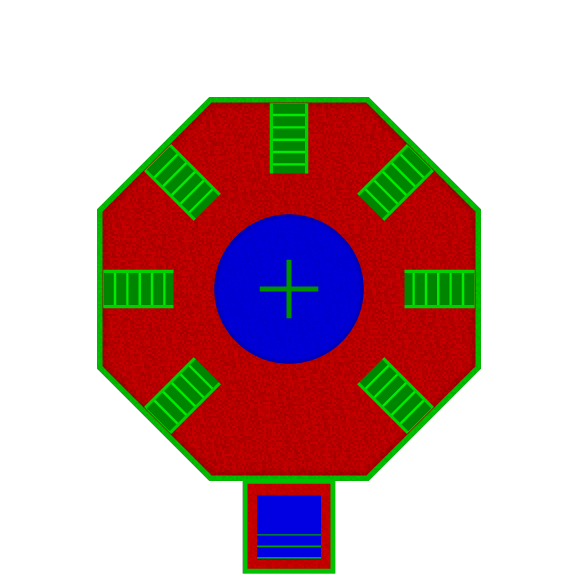
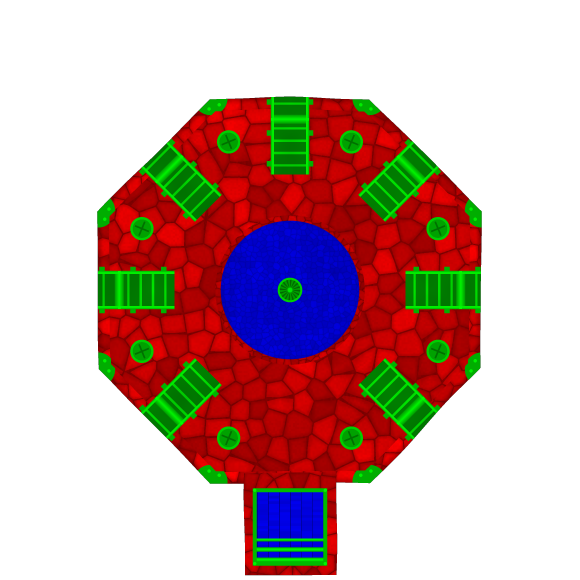
Build the factory from stone with iron fittings and a geared ring.
The base is flagstone with a wobbly stone curb, iron corner brackets, manholes between belts, belt drums and stand feet, a gravel yard with a cast drain, and a plank dock with rollers. The ring has bulged riveted plates, rust, a toothed rim and vents; the brass hatch stays the only rotation marker.

Changed region(s): [[0.1557, 0.1557, 0.8408, 0.9965]]

diff --git a/tools/gen_factory.py b/tools/gen_factory.py
@@ -6,16 +6,18 @@ stejně jako domečky. Osmiúhelník je přes plochy široký jako kotlina,
 tedy 6 m. Výstupek z jižní hrany přesahuje.
 
 Spodek (0 m):
-  podlaha osmiúhelníku, sedm dopravníků od hran ke středu,
-  čtvercový výstupek na jižní hraně (tam ve hře vyjedou krabičky)
-  a kruhová plocha na materiál uprostřed.
-  Dopravníky jsou jeden snímek. Pohyb pásu by potom byl posun
+  kamenná dlažba v osmiúhelníku se zvlněnou zídkou a železným kováním
+  v rozích, sedm dopravníků od hran ke středu s hnacím válcem a patkami,
+  poklopy mezi pásy, čtvercový výstupek na jižní hraně (tam ve hře
+  vyjedou krabičky) a uprostřed štěrková plocha na materiál s litinovou
+  mříží. Dopravníky jsou jeden snímek. Pohyb pásu by potom byl posun
   toho vzoru, ne další obrázky.
 
 Mezikruží (výška RING_H): samostatná vrstva, střed je průhledný,
 takže sklad pod ním zůstane vidět. Obrázek je vystředěný na osu,
-kolem které se vrstva ve hře otočí. Jeden díl má mosazný poklop,
-aby otočení bylo poznat.
+kolem které se vrstva ve hře otočí. Nýtované pláty s rzí, ozubený
+věnec a větrací mřížky. Jeden díl má mosazný poklop, aby otočení
+bylo poznat.
 
 Vrstva nese váhy materiálu, ne hotovou barvu. Alfa je krytí.
 Spodek: R podlaha, G kov, B sklad.
@@ -34,7 +36,7 @@ from pathlib import Path
 import numpy as np
 from PIL import Image, ImageDraw, ImageFilter
 
-from gen_houses import SHADE_FLOOR, colorize, hash01, load_font, smoothstep
+from gen_houses import SHADE_FLOOR, colorize, fbm, hash01, load_font, organic, smoothstep, stone_shade
 from gen_trees import on_grass
 
 ROOT = Path(__file__).resolve().parent.parent
@@ -139,43 +141,101 @@ def octagon(x: np.ndarray, y: np.ndarray, apothem: float) -> tuple[np.ndarray, n
     return inside, dist
 
 
-def paint_base(x: np.ndarray, y: np.ndarray) -> Mask:
-    cell = int(round((x.shape[1] / SS)))
+def blend(mask: Mask, where: np.ndarray, channel: int, amount: np.ndarray) -> None:
+    """Přimíchá druhý materiál, třeba rez do plechu. Krytí a světlost zůstanou."""
+    amount = np.clip(amount, 0.0, 1.0)
+    keep = 1.0 - amount
+    mask.ch[:, where] *= keep[where]
+    mask.ch[channel, where] += amount[where]
+
+
+def disc(x: np.ndarray, y: np.ndarray, cx: float, cy: float, radius: float) -> np.ndarray:
+    return (x - cx) ** 2 + (y - cy) ** 2 <= radius * radius
+
+
+def paint_base(x0: np.ndarray, y0: np.ndarray) -> Mask:
+    cell = int(round((x0.shape[1] / SS)))
     mask = Mask(cell)
-    n = x.shape[0]
     ap = m(FLAT)
+    # Zděný obvod se vlní, stroje uvnitř drží rovné souřadnice x0, y0.
+    x, y = organic(x0, y0, 401, 0.0, m(0.07))
     inside, edge = octagon(x, y, ap)
-    grain = noise(n, 11)
-    rim = smoothstep(m(0.42), 0.0, edge)
-    floor_shade = (0.56 + 0.18 * grain) * (1.0 - 0.30 * rim)
-    mask.fill(inside, FLOOR, floor_shade)
+    flags = stone_shade(x, y, m(0.62), 403)
+    weather = 0.84 + 0.24 * fbm(x, y, m(2.2), 405)
+    mask.fill(inside, FLOOR, flags * weather * (1.0 - 0.2 * smoothstep(m(0.6), 0.0, edge)))
 
-    curb = inside & (edge < m(0.16)) & (edge >= 0.0)
-    mask.fill(curb, METAL, 0.62 + 0.08 * grain)
+    # Obvodová zídka z větších kamenů, nahoře světlejší.
+    curb = inside & (edge < m(0.34))
+    blocks = stone_shade(x, y, m(0.36), 407, (1.3, 1.3))
+    mask.fill(curb, FLOOR, blocks * (0.72 + 0.3 * smoothstep(0.0, m(0.2), edge)))
+    paint_brackets(mask, x0, y0, inside, edge)
 
-    dist = np.hypot(x, y)
-    yard = dist <= m(YARD)
-    yard_shade = 0.74 + 0.10 * noise(n, 19, 6)
-    yard_shade = yard_shade * (1.0 - 0.22 * smoothstep(m(YARD - 0.16), m(YARD), dist))
-    mask.fill(yard, YARD_CH, yard_shade)
-    # Kříž na ploše, ať je vidět, že se sklad s mezikružím netočí.
-    arm = m(0.07)
-    cross = yard & (((np.abs(x) <= arm) & (np.abs(y) <= m(0.85))) | ((np.abs(y) <= arm) & (np.abs(x) <= m(0.85))))
-    mask.fill(cross, METAL, 0.46)
+    dist0 = np.hypot(x0, y0)
+    yard = dist0 <= m(YARD)
+    gravel = stone_shade(x0, y0, m(0.16), 409)
+    earth = 0.62 + 0.26 * fbm(x0, y0, m(0.9), 411)
+    mask.fill(yard, YARD_CH, (0.55 * earth + 0.45 * gravel) * (1.0 - 0.2 * smoothstep(m(YARD - 0.3), m(YARD), dist0)))
+    edging = yard & (dist0 >= m(YARD - 0.16))
+    mask.fill(edging, FLOOR, stone_shade(x0, y0, m(0.22), 413) * 0.82)
+    paint_drain(mask, x0, y0)
 
-    paint_belts(mask, x, y, inside)
-    paint_dock(mask, x, y, grain)
+    paint_manholes(mask, x0, y0, inside)
+    paint_belts(mask, x0, y0, inside)
+    paint_dock(mask, x0, y0, x, y)
     return mask
+
+
+def paint_brackets(mask: Mask, x: np.ndarray, y: np.ndarray, inside: np.ndarray, edge: np.ndarray) -> None:
+    """Železné kování v rozích zídky. Drží ji pohromadě a je to první technický znak."""
+    reach = m(FLAT) / math.cos(math.pi / 8.0)
+    for k in range(8):
+        ang = (k + 0.5) * math.pi / 4.0
+        vx, vy = math.cos(ang) * reach, math.sin(ang) * reach
+        plate = inside & (edge < m(0.36)) & disc(x, y, vx, vy, m(0.5))
+        mask.fill(plate, METAL, 0.6)
+        for step in (0.2, 0.38):
+            bx, by = math.cos(ang) * (reach - m(step) * 1.4), math.sin(ang) * (reach - m(step) * 1.4)
+            for turn in (-1.0, 1.0):
+                tx, ty = -math.sin(ang) * turn * m(0.16), math.cos(ang) * turn * m(0.16)
+                mask.fill(plate & disc(x, y, bx + tx, by + ty, m(0.05)), METAL, 0.92)
+
+
+def paint_drain(mask: Mask, x: np.ndarray, y: np.ndarray) -> None:
+    """Litinová mříž uprostřed skladu. Ukazuje střed, který se neotáčí."""
+    dist = np.hypot(x, y)
+    cover = dist <= m(0.36)
+    mask.fill(cover, METAL, 0.5)
+    slot = cover & (dist > m(0.1)) & (dist < m(0.3)) & (np.mod(np.arctan2(y, x) * 8.0 / math.pi, 1.0) < 0.42)
+    mask.fill(slot, METAL, 0.26)
+    mask.fill(cover & (dist >= m(0.3)), METAL, 0.78)
+    mask.fill(dist <= m(0.07), METAL, 0.86)
+
+
+def paint_manholes(mask: Mask, x: np.ndarray, y: np.ndarray, inside: np.ndarray) -> None:
+    """Poklopy mezi pásy, do podzemí továrny."""
+    radius = m((RING_OUT + FLAT) * 0.5 + 0.1)
+    for k in range(8):
+        ang = (k + 0.5) * math.pi / 4.0
+        cx, cy = math.cos(ang) * radius, math.sin(ang) * radius
+        lid = inside & disc(x, y, cx, cy, m(0.34))
+        mask.fill(lid, METAL, 0.54)
+        mask.fill(lid & ~disc(x, y, cx, cy, m(0.27)), METAL, 0.76)
+        groove = lid & disc(x, y, cx, cy, m(0.22)) & (
+            (np.abs((x - cx) * math.cos(ang) + (y - cy) * math.sin(ang)) < m(0.025))
+            | (np.abs(-(x - cx) * math.sin(ang) + (y - cy) * math.cos(ang)) < m(0.025))
+        )
+        mask.fill(groove, METAL, 0.3)
 
 
 def paint_belts(mask: Mask, x: np.ndarray, y: np.ndarray, inside: np.ndarray) -> None:
     """Sedm pásů od ploché hrany ke kolu. Jižní hrana má místo pásu výstupek."""
     half = m(BELT_HALF)
     rail = m(0.09)
-    outer = m(FLAT) - m(0.18)
+    outer = m(FLAT) + m(0.2)
     inner = m(RING_OUT) - m(0.18)
     pitch = m(0.36)
     slat_w = m(0.07)
+    dirt = 0.82 + 0.26 * fbm(x, y, m(0.8), 421)
     for k in range(8):
         if k == SOUTH:
             continue
@@ -184,37 +244,46 @@ def paint_belts(mask: Mask, x: np.ndarray, y: np.ndarray, inside: np.ndarray) ->
         along = x * nx + y * ny
         side = -x * ny + y * nx
         span = inside & (along >= inner) & (along <= outer)
+        # Patky stojanu vedle pásu, po délce v pravidelném kroku.
+        foot = span & (np.abs(side) > half) & (np.abs(side) <= half + m(0.12)) & (np.mod(along, m(0.9)) < m(0.16))
+        mask.fill(foot, METAL, 0.62)
         belt = span & (np.abs(side) <= half)
         center = span & (np.abs(side) <= half - rail)
         rails = belt & ~center
-        mask.fill(belt, METAL, 0.40)
-        mask.fill(rails, METAL, 0.78)
+        mask.fill(belt, METAL, 0.36 * dirt)
+        rail_light = 0.62 + 0.3 * smoothstep(0.0, rail * 0.6, half - np.abs(side))
+        mask.fill(rails, METAL, rail_light)
         slats = center & (np.mod(along, pitch) < slat_w)
-        mask.fill(slats, METAL, 0.90)
+        mask.fill(slats, METAL, 0.84 * dirt)
+        # Hnací válec u vnějšího konce, oblý: uprostřed světlý.
+        drum_at = m(FLAT) - m(0.62)
+        drum = center & (np.abs(along - drum_at) <= m(0.13))
+        mask.fill(drum, METAL, 0.5 + 0.45 * (1.0 - np.abs(along - drum_at) / m(0.13)))
+        bolt = span & (np.abs(np.abs(side) - (half - rail * 0.5)) < m(0.04)) & (np.abs(along - drum_at) < m(0.04))
+        mask.fill(bolt, METAL, 0.98)
 
 
-def paint_dock(mask: Mask, x: np.ndarray, y: np.ndarray, grain: np.ndarray) -> None:
+def paint_dock(mask: Mask, x: np.ndarray, y: np.ndarray, wx: np.ndarray, wy: np.ndarray) -> None:
     ap = m(FLAT)
     side = m(DOCK)
-    overlap = m(0.06)
-    dock = (np.abs(x) <= side / 2.0) & (y >= ap - overlap) & (y <= ap + side)
-    mask.fill(dock, FLOOR, 0.64 + 0.12 * grain)
-    rim = m(0.14)
-    border = dock & (
-        (np.abs(x) >= side / 2.0 - rim)
-        | (y <= ap - overlap + rim)
-        | (y >= ap + side - rim)
-    )
-    mask.fill(border, METAL, 0.70)
-    plate = (
-        (np.abs(x) <= side / 2.0 - m(0.42))
-        & (y >= ap + m(0.42))
-        & (y <= ap + side - m(0.42))
-    )
-    mask.fill(plate, YARD_CH, 0.86)
-    # Válečky u vnější hrany, kudy krabička vyjede ven.
-    roller = plate & (np.mod(y, m(0.34)) < m(0.05)) & (y > ap + side - m(1.15))
-    mask.fill(roller, METAL, 0.55)
+    overlap = m(0.3)
+    dock = (np.abs(wx) <= side / 2.0) & (wy >= ap - overlap) & (wy <= ap + side)
+    mask.fill(dock, FLOOR, stone_shade(wx, wy, m(0.4), 431, (1.2, 1.2)) * 0.92)
+    plate = (np.abs(x) <= side / 2.0 - m(0.38)) & (y >= ap + m(0.3)) & (y <= ap + side - m(0.38))
+    frame = (np.abs(x) <= side / 2.0 - m(0.26)) & (y >= ap + m(0.18)) & (y <= ap + side - m(0.26))
+    mask.fill(frame, METAL, 0.66)
+    # Výdejní deska z prken, kudy krabička vyjede.
+    plank = np.mod(x / m(0.32), 1.0)
+    grain = hash01(np.floor(x / m(0.32)), np.floor(y / m(0.08)), 433)
+    mask.fill(plate, YARD_CH, (0.78 + 0.14 * grain) * np.where(plank < 0.08, 0.6, 1.0))
+    roller_zone = plate & (y > ap + side - m(1.05))
+    phase = np.mod(y / m(0.3), 1.0)
+    roller = roller_zone & (phase < 0.45)
+    mask.fill(roller, METAL, 0.45 + 0.5 * np.sin(phase / 0.45 * math.pi))
+    for sx in (-1.0, 1.0):
+        bolt = disc(x, y, sx * (side / 2.0 - m(0.32)), ap + m(0.24), m(0.05))
+        bolt |= disc(x, y, sx * (side / 2.0 - m(0.32)), ap + side - m(0.32), m(0.05))
+        mask.fill(bolt, METAL, 0.95)
 
 
 def paint_ring(x: np.ndarray, y: np.ndarray) -> Mask:
@@ -223,29 +292,42 @@ def paint_ring(x: np.ndarray, y: np.ndarray) -> Mask:
     n = x.shape[0]
     dist = np.hypot(x, y)
     outer, inner = m(RING_OUT), m(RING_IN)
+    ang = np.arctan2(y, x)
+    teeth = 44
+    tooth_phase = np.mod(ang * teeth / math.tau, 1.0)
+    tooth_w = np.abs(tooth_phase - 0.5) * 2.0
+    tooth_top = outer + m(0.17) * np.clip(1.6 - 1.6 * tooth_w, 0.0, 1.0)
+    gear = (dist > outer) & (dist <= tooth_top) & (tooth_w < 0.82)
     ring = (dist <= outer) & (dist >= inner)
     grain = noise(n, 29, 5)
     t = np.clip((dist - inner) / (outer - inner), 0.0, 1.0)
-    ang = np.arctan2(y, x)
     # Spáry míří do rohů osmiúhelníku, díly sedí nad plochými stranami.
     # Severní poklop je pak uprostřed dílu a spára jím nevede.
     sector = math.pi / 4.0
     aligned = ang - math.pi / 8.0
     sector_i = np.floor(np.mod(aligned + math.pi, math.tau) / sector)
-    alt = np.where(np.mod(sector_i, 2) == 0, 0.05, -0.03).astype(np.float32)
-    shade = np.clip(0.50 + 0.30 * t + 0.08 * grain + alt, 0.0, 1.0)
-    mask.fill(ring, PLATE, shade)
-
+    alt = (hash01(sector_i, np.zeros_like(sector_i), 31) - 0.5) * 0.12
     seam_ang = np.minimum(np.mod(aligned, sector), sector - np.mod(aligned, sector))
-    seams = ring & (seam_ang * np.maximum(dist, 1.0) < m(0.055))
-    mask.fill(seams, LIP, 0.34)
+    seam_px = seam_ang * np.maximum(dist, 1.0)
+    # Plát je vyboulený: u spár a lemů tmavší, uprostřed světlejší.
+    bulge = smoothstep(0.0, m(0.4), np.minimum(seam_px, np.minimum(dist - inner, outer - dist)))
+    shade = np.clip((0.46 + 0.26 * t + 0.06 * grain + alt) * (0.82 + 0.22 * bulge), 0.0, 1.0)
+    mask.fill(ring, PLATE, shade)
+    mask.fill(gear, LIP, 0.56 + 0.3 * (1.0 - tooth_w))
+    # Rez a ošoupání, ne všude stejně.
+    rust = smoothstep(0.55, 0.85, fbm(x, y, m(0.9), 33)) * 0.55
+    blend(mask, ring, LIP, rust)
 
-    lip_w = m(0.12)
-    mask.fill(ring & (dist <= inner + lip_w), LIP, 0.40)
-    mask.fill(ring & (dist >= outer - lip_w), LIP, 0.48)
+    mask.fill(ring & (seam_px < m(0.05)), LIP, 0.3)
+    lip_w = m(0.14)
+    inner_lip = ring & (dist <= inner + lip_w)
+    mask.fill(inner_lip, LIP, 0.38 + 0.4 * np.sin(np.clip((dist - inner) / lip_w, 0.0, 1.0) * math.pi))
+    outer_lip = ring & (dist >= outer - lip_w)
+    mask.fill(outer_lip, LIP, 0.42 + 0.36 * np.sin(np.clip((outer - dist) / lip_w, 0.0, 1.0) * math.pi))
 
-    # Poklop na severu. Jediný takový díl, proto je otočení vidět.
     north = np.abs(np.arctan2(np.sin(ang + math.pi / 2.0), np.cos(ang + math.pi / 2.0)))
+    paint_vents(mask, x, y, ring, dist, ang)
+    # Poklop na severu. Jediný takový díl, proto je otočení vidět.
     hatch = ring & (north < 0.30) & (dist > inner + m(0.38)) & (dist < outer - m(0.38))
     mask.fill(hatch, BRASS, 0.78 + 0.10 * grain)
     hatch_rim = hatch & (
@@ -254,26 +336,49 @@ def paint_ring(x: np.ndarray, y: np.ndarray) -> Mask:
         | (dist > outer - m(0.50))
     )
     mask.fill(hatch_rim, LIP, 0.42)
-    knob = (x * x + (y + m((RING_IN + RING_OUT) * 0.5)) ** 2) < m(0.16) ** 2
+    mid = m((RING_IN + RING_OUT) * 0.5)
+    hinge = ring & (np.abs(x) <= m(0.36)) & (np.abs(y + inner + m(0.33)) <= m(0.05))
+    mask.fill(hinge, LIP, 0.7)
+    knob = disc(x, y, 0.0, -mid - m(0.18), m(0.12))
     mask.fill(ring & knob, BRASS, 0.96)
 
-    paint_rivets(mask, x, y, ring)
+    paint_rivets(mask, x, y, ring, dist, aligned)
     return mask
 
 
-def paint_rivets(mask: Mask, x: np.ndarray, y: np.ndarray, ring: np.ndarray) -> None:
-    rivet = np.zeros(x.shape, dtype=bool)
-    radius = m((RING_IN + RING_OUT) * 0.5)
-    # Severní díl má poklop, nýty tam nepřekrývají mosaz.
-    for i in range(16):
-        ang = (i + 0.5) * math.pi / 8.0
-        north = (ang + math.pi / 2.0 + math.pi) % math.tau - math.pi
-        if abs(north) < 0.42:
-            continue
-        px = math.cos(ang) * radius
-        py = math.sin(ang) * radius
-        rivet |= (x - px) ** 2 + (y - py) ** 2 < m(0.065) ** 2
-    mask.fill(ring & rivet, LIP, 0.72)
+def paint_vents(mask: Mask, x: np.ndarray, y: np.ndarray, ring: np.ndarray, dist: np.ndarray, ang: np.ndarray) -> None:
+    """Dvě mřížky větrání. Jsou na jih a na jihovýchod, poklop drží sever sám."""
+    mid = m((RING_IN + RING_OUT) * 0.5)
+    for turn in (math.pi / 2.0, math.pi / 4.0 - 0.1):
+        local = np.arctan2(np.sin(ang - turn), np.cos(ang - turn))
+        arc = local * dist
+        box = ring & (np.abs(arc) <= m(0.42)) & (np.abs(dist - mid) <= m(0.26))
+        mask.fill(box, LIP, 0.34)
+        slat = box & (np.mod((dist - mid) / m(0.11), 1.0) < 0.45) & (np.abs(arc) <= m(0.36))
+        mask.fill(slat, PLATE, 0.7)
+
+
+def paint_rivets(
+    mask: Mask, x: np.ndarray, y: np.ndarray, ring: np.ndarray, dist: np.ndarray, aligned: np.ndarray
+) -> None:
+    """Nýty v řadách podél spár a obou lemů."""
+    inner, outer = m(RING_IN), m(RING_OUT)
+    sector = math.pi / 4.0
+    local = np.mod(aligned, sector)
+    near = np.minimum(local, sector - local) * np.maximum(dist, 1.0)
+    pitch = m(0.28)
+    head = m(0.05)
+    radial = np.mod(dist - inner, pitch) - pitch * 0.5
+    seam_row = (np.abs(near - m(0.13)) <= head) & (np.abs(radial) <= head)
+    seam_row &= (dist > inner + m(0.24)) & (dist < outer - m(0.24))
+    circ_pitch = m(0.34) / np.maximum(dist, 1.0)
+    around = np.mod(aligned, circ_pitch) - circ_pitch * 0.5
+    arc_off = around * dist
+    lip_row = np.zeros_like(ring)
+    for at in (inner + m(0.25), outer - m(0.25)):
+        lip_row |= (np.abs(dist - at) <= head) & (np.abs(arc_off) <= head)
+    rivet = ring & (seam_row | lip_row) & (mask.ch[1] < 0.5)
+    mask.fill(rivet, LIP, 0.8)
 
 
 def crop_square(image: Image.Image, pad: int = 4) -> Image.Image:
